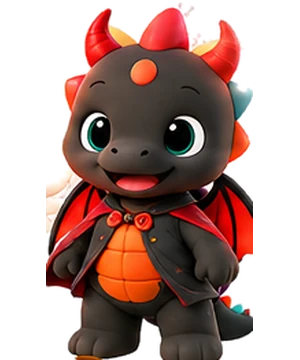
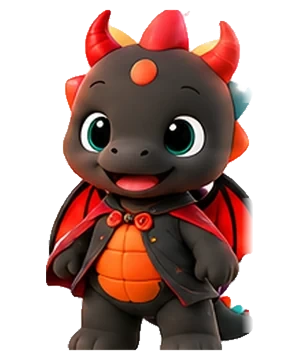
Pet outfits: cleaner cut-outs for all 30 clothing pictures
Re-cut every outfit picture with an AI background remover: no checkerboard
patches, white fringes or coloured specks; holes in white clothes filled;
the straight sheet-cut edges now fade out softly. Same 300x360 canvas and
pet position, so hats, glasses and shoes still line up.

Claude-Session: https://claude.ai/code/session_01PE1frRwLJZ8H9NgNja9Dhd

diff --git a/CLAUDE.md b/CLAUDE.md
@@ -390,6 +390,10 @@ text.
   with CSS filters. No WebGL → `onFail` falls back to the still picture. The page's phone rule shrinks every
   `canvas` (index.css) — the puppet's canvas overrides it (`.rwpet-rig`).
 - Animations only use transform / opacity and are switched off with `prefers-reduced-motion`.
+- Outfit pictures (client/public/pet-items/cloth-N.webp, 300×360, same canvas for every outfit): re-cut with
+  an AI background remover (BiRefNet) — no checkerboard / white fringe / specks, holes the old cut-out ate in
+  white clothes filled, straight sheet-cut edges faded softly. Keep the canvas size and the pet's position
+  when replacing one: the eye anchors (`CLOTH_EYES`) and the hats / glasses / shoes are placed by them.
 
 ## 6 Cups (server/games.ts `sc*`, app `SixCupGame`)
 
